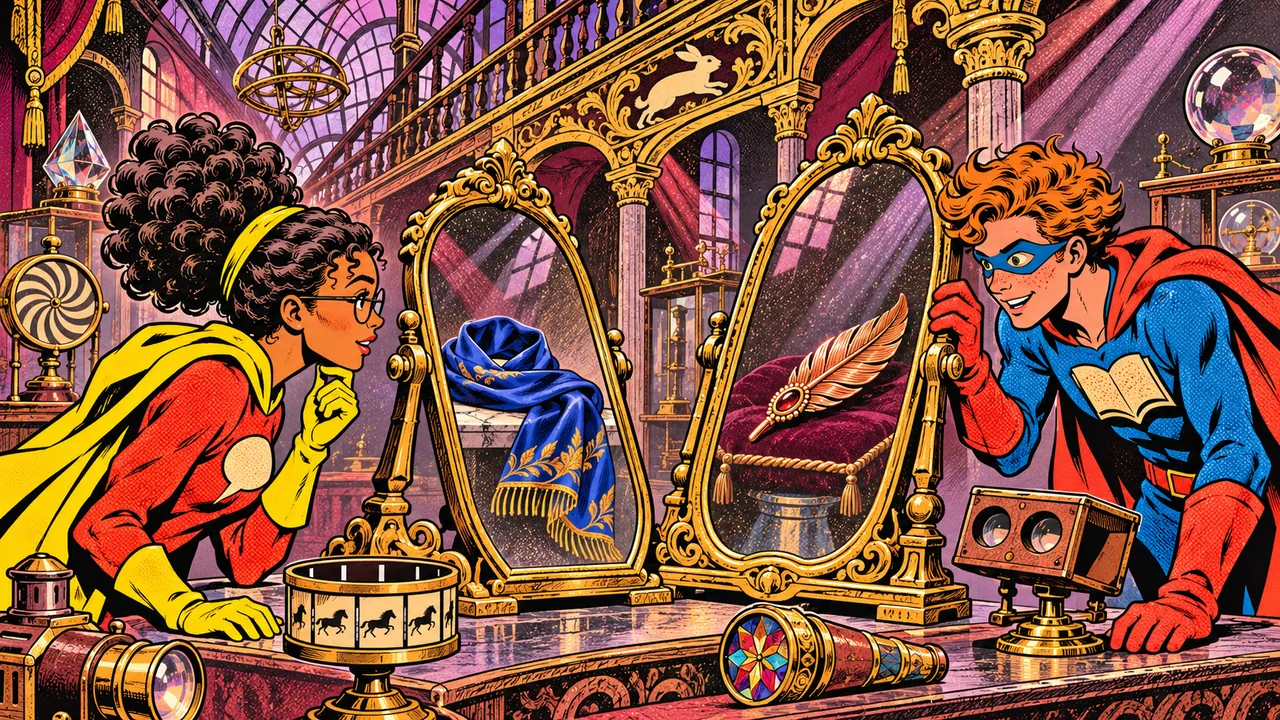
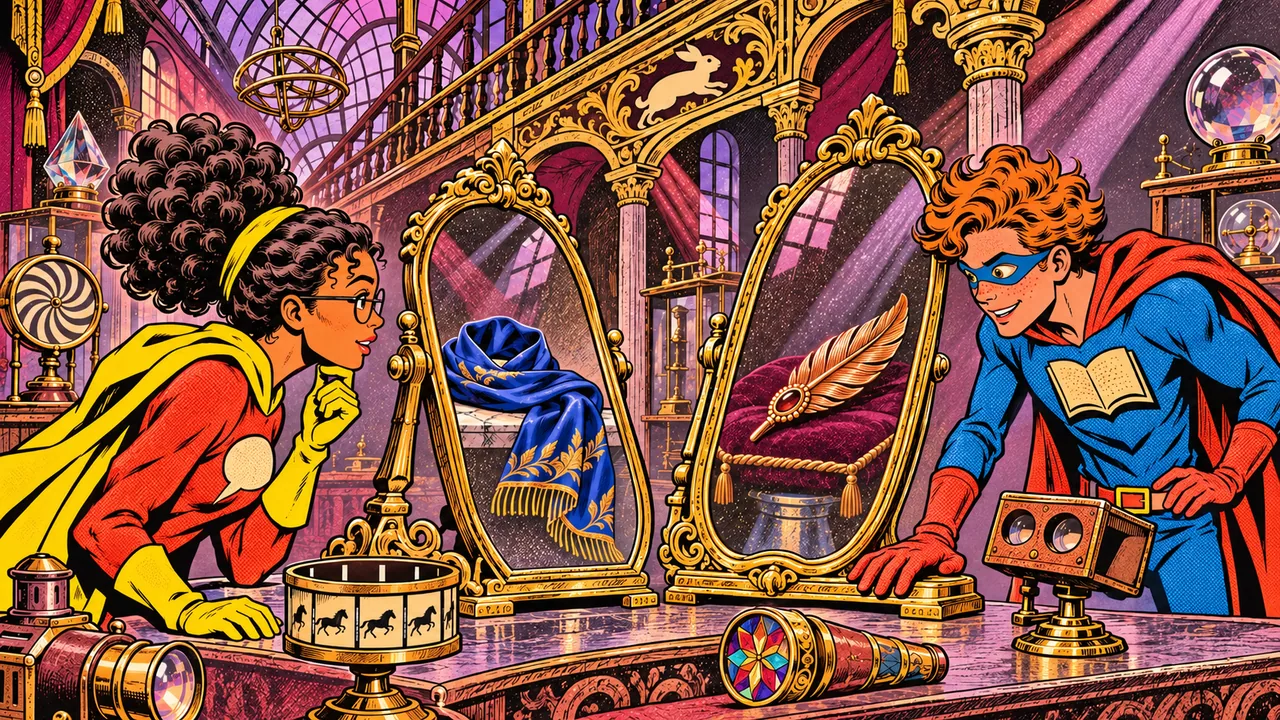
Correct Sam's poses in the mirror gallery and rooftop panels

diff --git a/lib/adventure/catalog.ts b/lib/adventure/catalog.ts
@@ -80,7 +80,7 @@ export const passages: Passage[] = [
     ending: "Dans le bon sac, Maya trouve un éclat de miroir. Sur son dos, Iris a dessiné deux profils. La galerie des reflets est encore éclairée.",
     keepsake: "Le ticket du vestiaire" },
   { id: 12, title: "Les deux reflets", place: "Galerie des miroirs", art: "museum-mirrors", minutes: "8 à 12 min",
-    alt: "Deux miroirs anciens renvoient la lumière pourpre de la galerie devant Maya et Sam.",
+    alt: "Maya observe l’écharpe bleue dans le miroir de gauche. Sam pose la main sur le socle du miroir de droite, où se reflète une broche en forme de plume.",
     skill: "Indiquer à qui appartient un objet avec his et her.",
     opening: "Iris devait laisser une clé au gardien. Les miroirs ont échangé les étiquettes. Deux témoins, trois pièces à examiner et une seule clé à remettre en main propre.",
     ending: "Noé ouvre le tiroir avec sa clé. À l’intérieur, un oiseau de cuivre a laissé une longue plume dentelée. On entend un ressort derrière le mur.",
@@ -92,7 +92,7 @@ export const passages: Passage[] = [
     ending: "La tortue se met en marche, le sac sur sa carapace. Le héron déverrouille la serre d’un coup de bec. Une lumière tremble derrière les vitres.",
     keepsake: "Le ressort du héron" },
   { id: 14, title: "Deux étoiles sur le toit", place: "Serre des étoiles", art: "museum-roof", minutes: "8 à 12 min",
-    alt: "Sur le toit vitré du musée, Maya et Sam étudient une table d’astronome sous les étoiles.",
+    alt: "Depuis la serre du musée, Maya et Sam lèvent les yeux vers les constellations. Deux étoiles de cuivre reposent sur la table devant eux.",
     skill: "Demander où se trouvent un ou plusieurs objets et transmettre leur position.",
     opening: "La tortue a suivi Iris jusqu’à une serre. Le mécanisme du tableau attend deux étoiles de cuivre et une clé. Le gardien te demande où les trouver.",
     ending: "Les deux étoiles servent de poids dans la balance de la serre. Une petite porte s’ouvre sur l’atelier de restauration. Une odeur de peinture fraîche en sort.",
